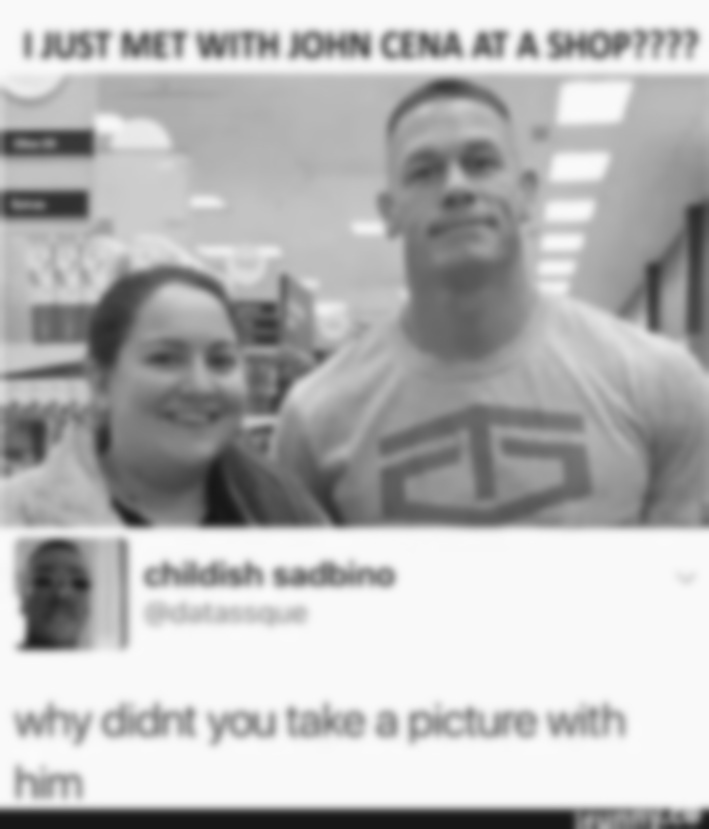
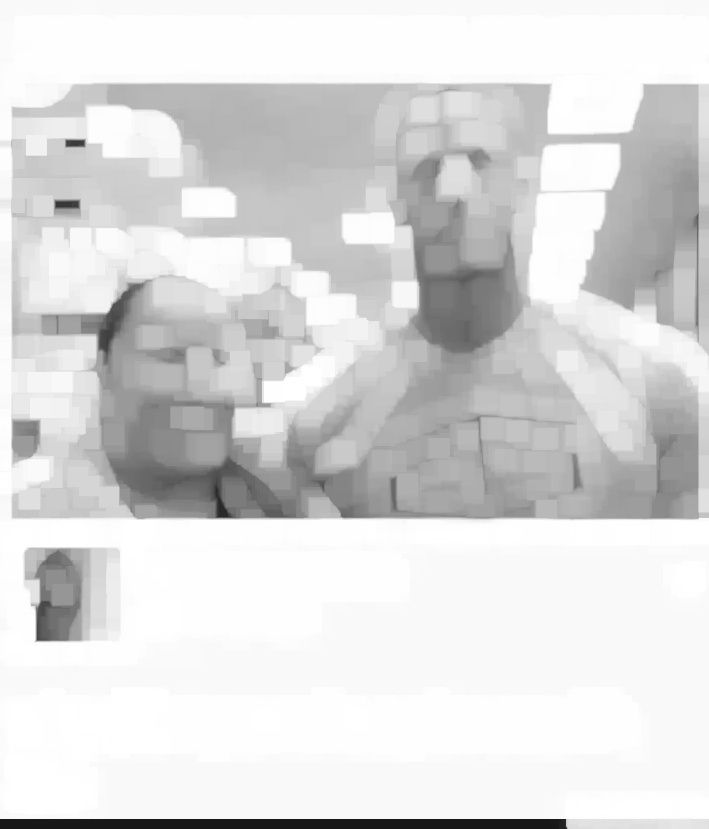
Les Logs

diff --git a/main.py b/main.py
@@ -1,11 +1,23 @@
 from gray import gray_pic
 from dilatation import dilatation_pic
 from blur import blur_pic
+import sys
+import cv2
+import logger
+
+import numpy as np
+import os
+
+
+import numpy
+#<<<<<<< Updated upstream
+
 
 dossierE = "imgs"
 dossierS = "ImgsModif"
 
 blur_pic(dossierE, dossierS)
+dilatation_pic(dossierE,dossierS)
 gray_pic(dossierS, dossierS)
 
 
@@ -13,3 +25,21 @@ gray_pic(dossierS, dossierS)
 
 
 
+
+
+
+
+image = cv2.imread('imgs/image1.jpg')
+image_gray= cv2.cvtColor(image, cv2.COLOR_BGR2GRAY)
+cv2.imwrite('ImgsModif/image1.jpg', image_gray)
+
+
+
+
+
+
+
+
+
+
+logger.dump_log()

diff --git a/dilatation.py b/dilatation.py
@@ -1,15 +1,19 @@
 import cv2
 import numpy as np
 import os
+import logger
 
 
 def dilatation_pic(dossierE, dossierS):
     files = os.listdir(dossierE)
     kernel = np.ones((20, 20), np.uint8)
-
+    print('coucou')
     for f in files:
         print(f)
         img = cv2.imread(f"{dossierE}/{f}")
         dilation = cv2.dilate(img, kernel, 20)
         cv2.imwrite(f"{dossierS}/{f}", dilation)
+        logger.log(f'dilatation_pic={f}')
+        break
+
 

diff --git a/logger.py b/logger.py
@@ -1,0 +1,15 @@
+from _datetime import datetime
+log_file = 'imageFilter.log'
+
+def log(msg):
+    now = datetime.now()
+    timestamp= now.strftime('%d/%m/%Y %H:%M:%S')
+    formatted = f'{timestamp}-{msg}'
+    with open(log_file, 'a') as f:
+        f.write(formatted + '\n')
+
+
+
+def dump_log():
+    with open(log_file,'r') as f :
+        print(f.read())

diff --git a/blur.py b/blur.py
@@ -1,5 +1,6 @@
 import cv2
 import os
+import logger
 
 
 def blur_pic(dossierE, dossierS):
@@ -10,3 +11,6 @@ def blur_pic(dossierE, dossierS):
         img = cv2.imread(f"{dossierE}/{f}")
         blur = cv2.GaussianBlur(img, (35, 35), cv2.BORDER_DEFAULT)
         cv2.imwrite(f"{dossierS}/{f}", blur)
+        logger.log(f' blur_pic ={f}')
+        break
+

diff --git a/gray.py b/gray.py
@@ -1,5 +1,6 @@
 import cv2
 import os
+import logger
 
 
 
@@ -10,3 +11,5 @@ def gray_pic(dossierE, dossierS):
         img = cv2.imread(f"{dossierE}/{f}")
         gray = cv2.cvtColor(img, cv2.COLOR_BGR2GRAY)
         cv2.imwrite(f"{dossierS}/{f}", gray)
+        logger.log(f'gray_pic={f}')
+        break
